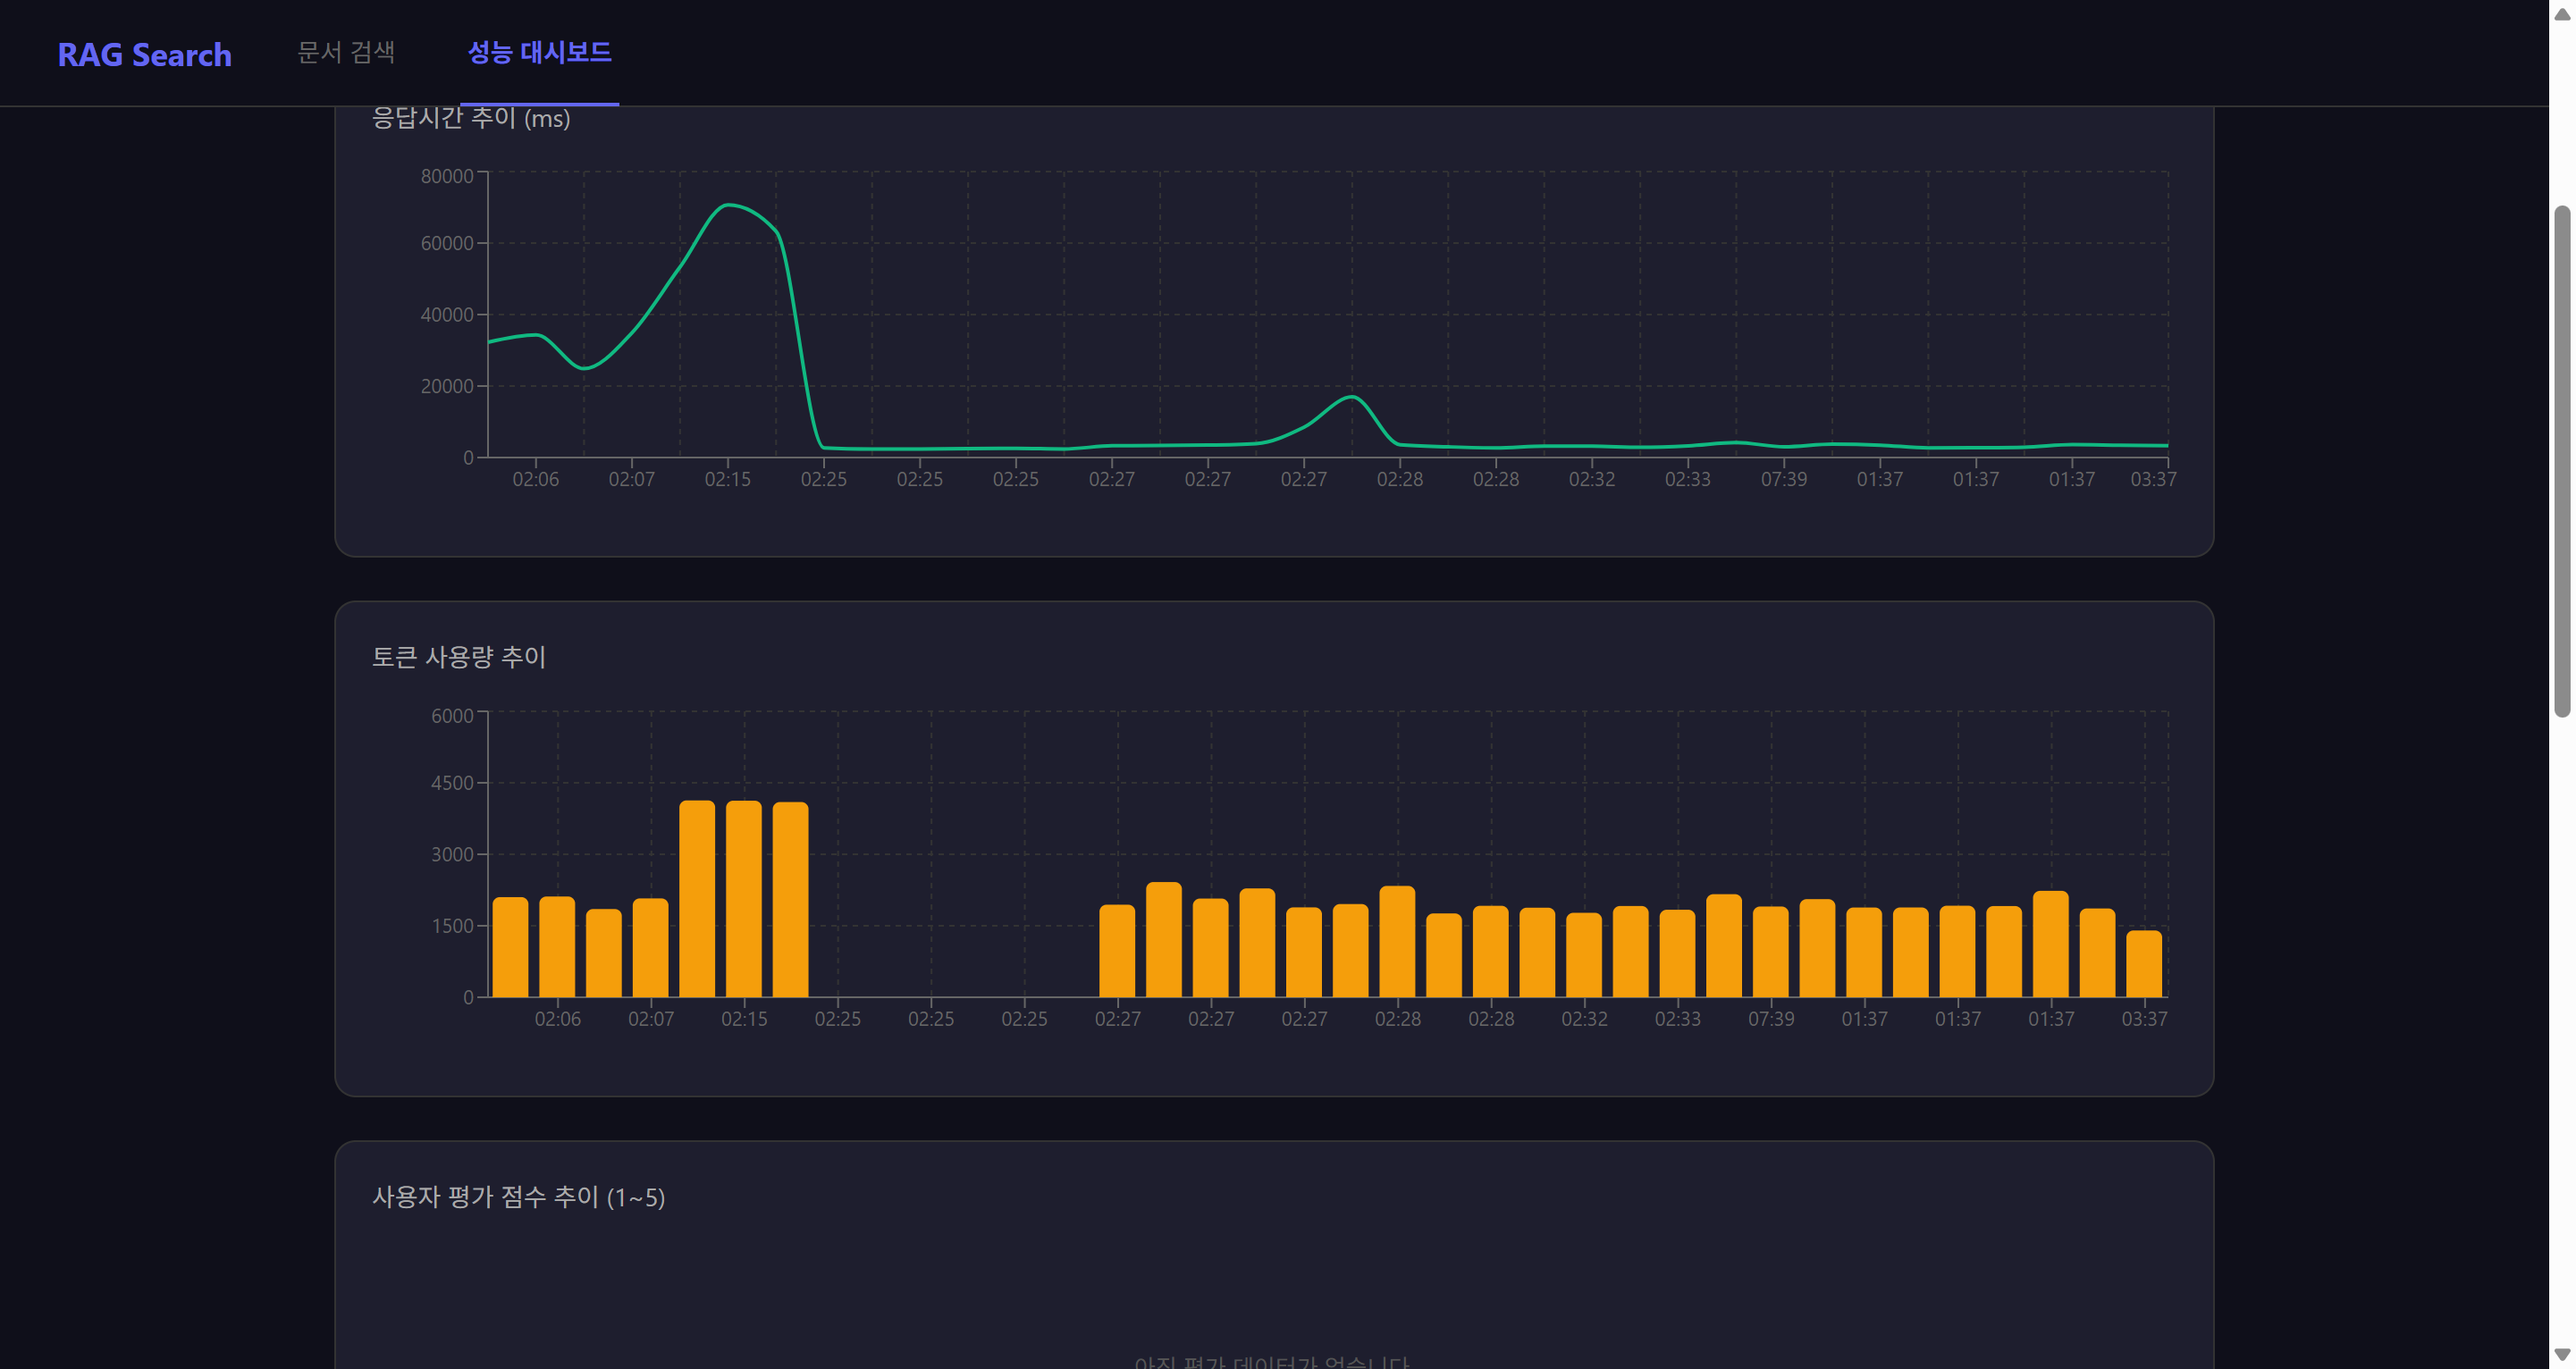
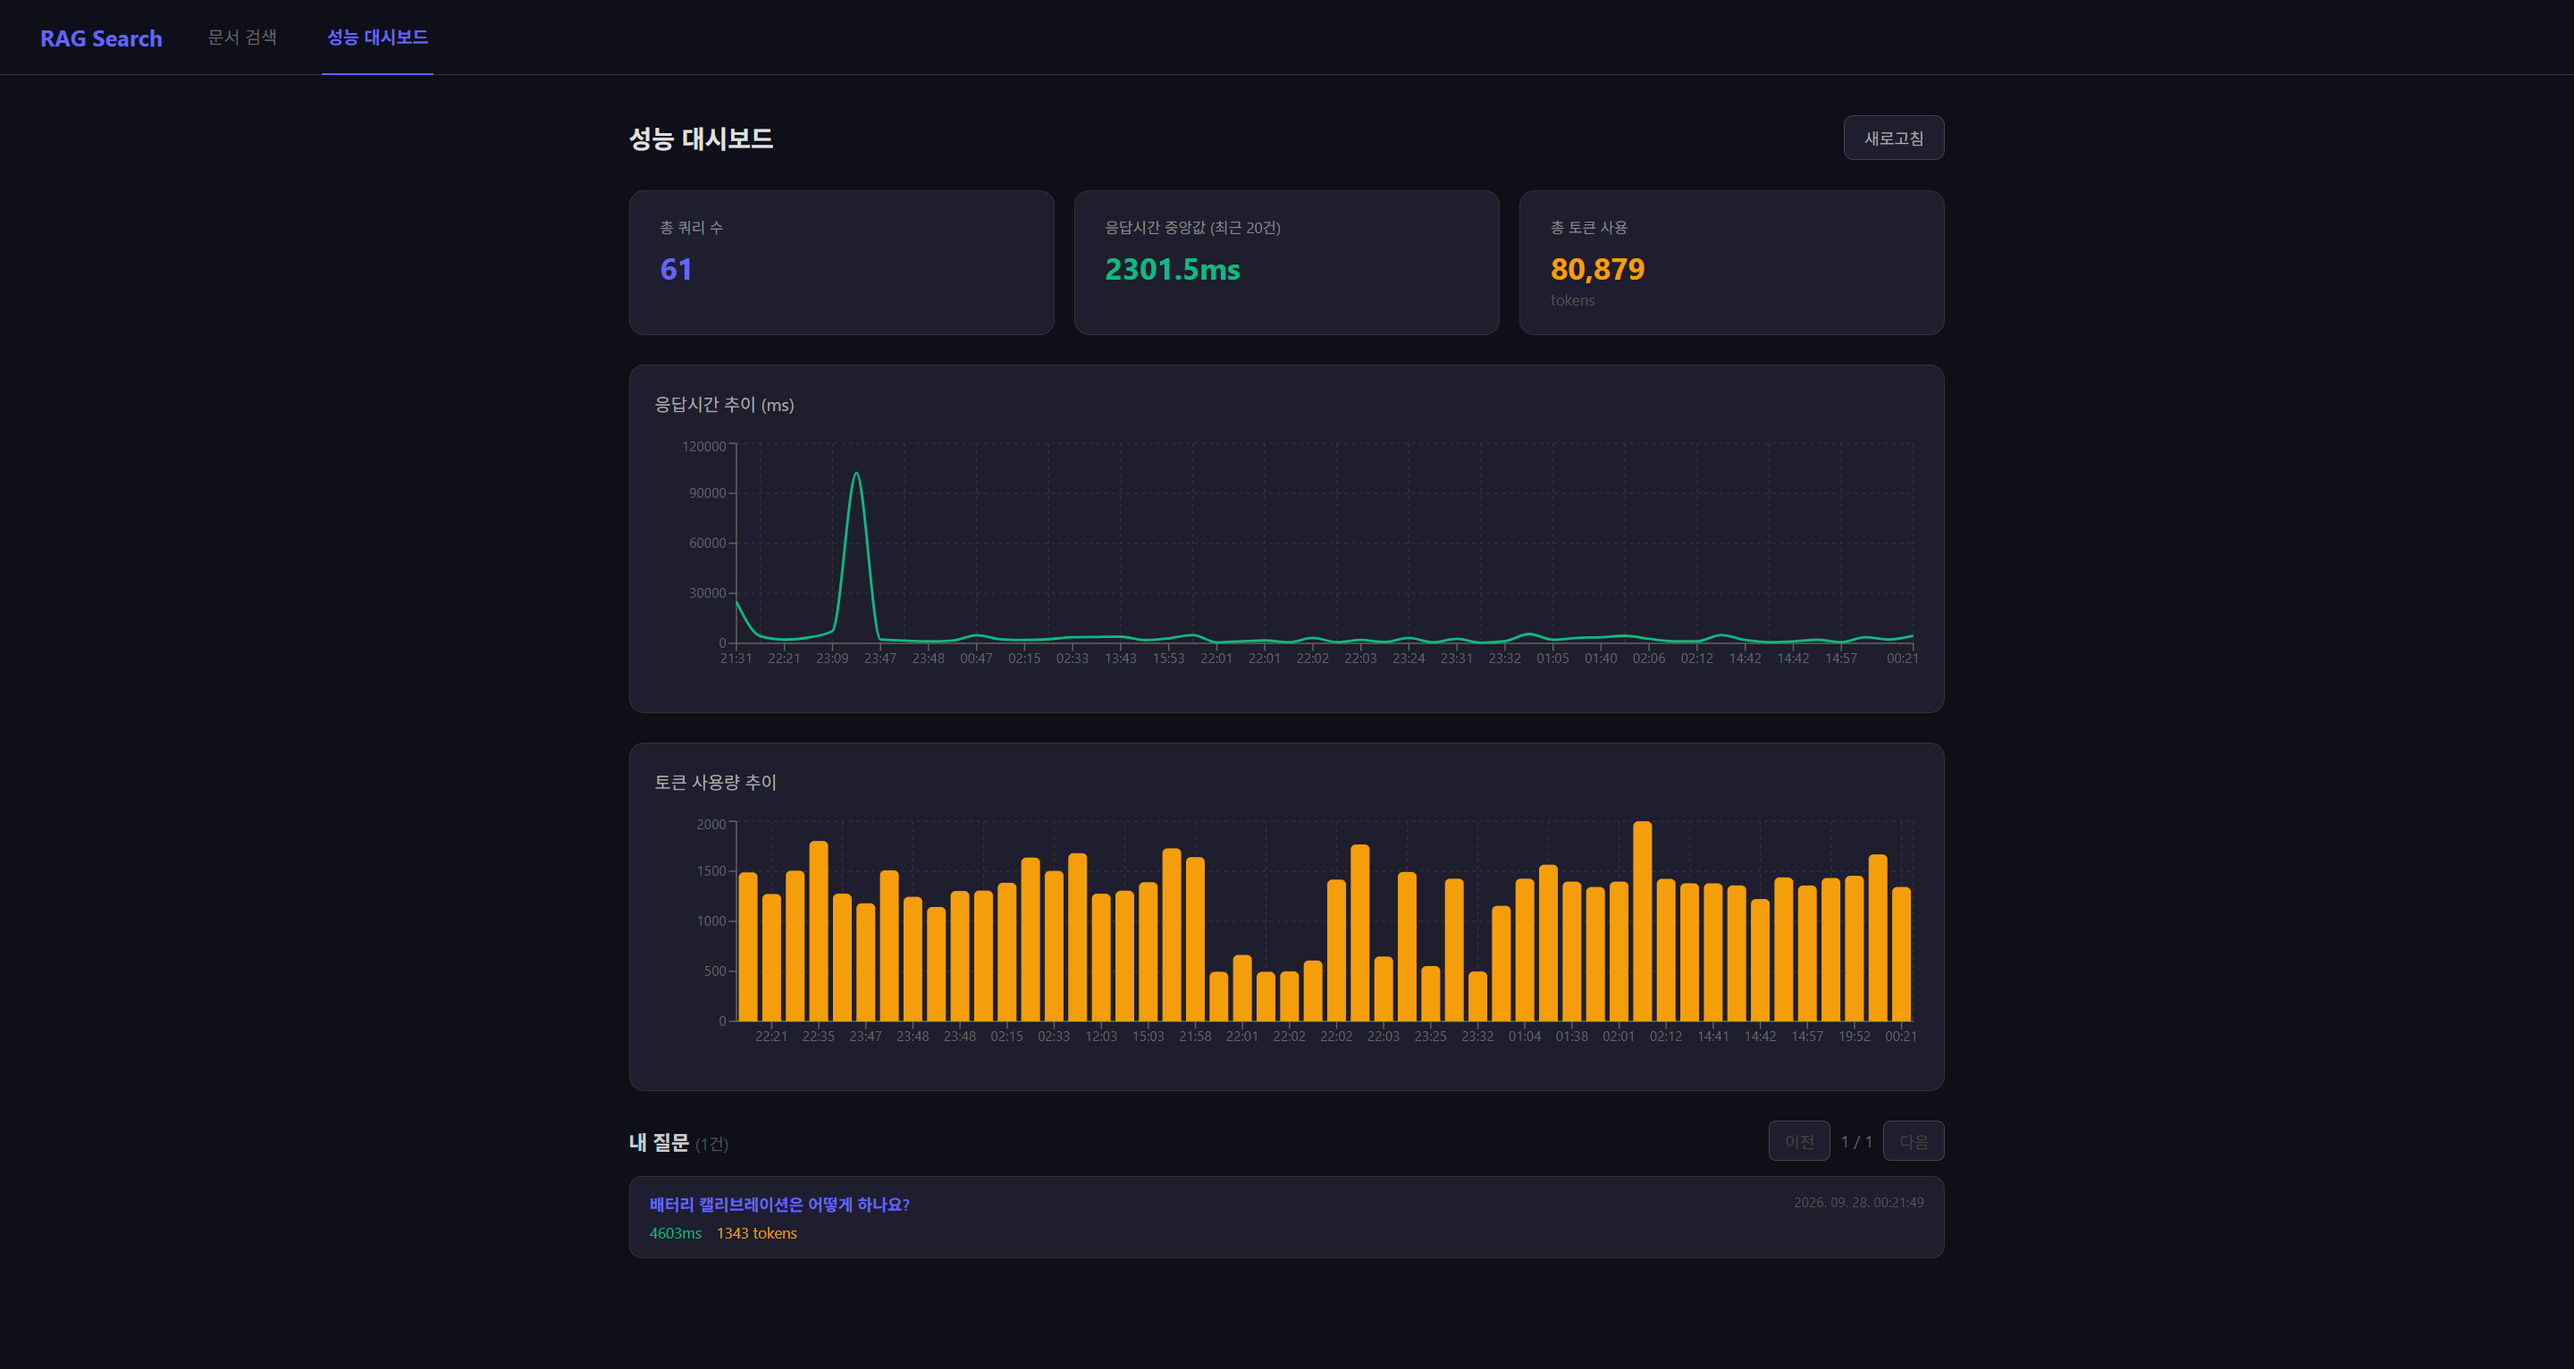
docs: README 스크린샷을 현재 화면으로 교체
두 장 다 9월 19일자였다. 익명 세션 작업(9/23~24) 이전 사진이라,
저장소를 여는 사람이 제일 먼저 보는 이미지에 우리가 일부러 없앤 기능이 박혀 있었다.

  사진                     실제
  "업로드된 문서 (1)"       내 문서 / 예시 문서
  "답변이 도움이 됐나요?"    없앰
  평균 평가 점수/점수 차트    없앰
  예시 질문 칩 없음          있음

운영 사이트에서 다시 찍었다. 대시보드는 9/19 때와 같은 함정을 또 만났다 —
전체 페이지 캡처는 브라우저가 화면 크기를 바꾸는 순간 Recharts 가 다시 계산되면서
차트가 빈 채로 찍힌다. 페이지를 축소해 한 화면에 담고 보이는 그대로 찍었다.

설명 문구도 갱신:
- 대시보드 대표값이 이제 최근 20건 중앙값이라는 것과 그 이유
- 예시 문서·예시 질문 칩 안내

diff --git a/README.md b/README.md
@@ -31,13 +31,22 @@ React → Spring Boot → Python FastAPI → OpenAI / Groq / Qdrant Cloud / Supa
 
 질문하면 관련 청크를 찾아 LLM이 답하고, **근거가 된 문서 조각과 응답시간·토큰 수를 함께** 보여줍니다. 답변은 SSE로 스트리밍됩니다.
 
+문서를 올리지 않아도 바로 써볼 수 있도록 **예시 문서**를 띄워두고, 무엇을 물어야 할지 모를 때를 위해
+**예시 질문 3개**를 버튼으로 둡니다. 이 질문들은 LLM이 지어낸 것이 아니라 평가셋에서 가져와
+**실제로 답이 나오는지 하나씩 확인한** 것만 남겼습니다 (→ [스토리 9](#9-목록만-나누면-답변이-남의-문서를-말한다)).
+
 <details>
 <summary>성능 대시보드 (펼치기)</summary>
 
 ![성능 대시보드](docs/images/dashboard.png)
 
 쿼리별 응답시간·토큰 사용량을 기록해 추이를 봅니다.
-화면의 평균 응답시간은 IPv6 문제를 고치기 전 기록까지 포함한 누적값입니다.
+
+대표값은 **최근 20건의 중앙값**입니다. 전체 평균을 쓰면 콜드 스타트 한 건(102초, 차트의 봉우리)에
+끌려가 4,977ms 가 됩니다 — 실제 체감(2~4초)과 딴판이죠. 그 기록을 지우는 대신 대표값을 바꿨습니다.
+**숫자가 불리하다고 데이터를 지우면 대시보드를 믿을 수 없게 되니까요.**
+
+질문 원문은 **본인 것만** 보입니다. 숫자와 차트는 전체 합계입니다.
 
 </details>
 
